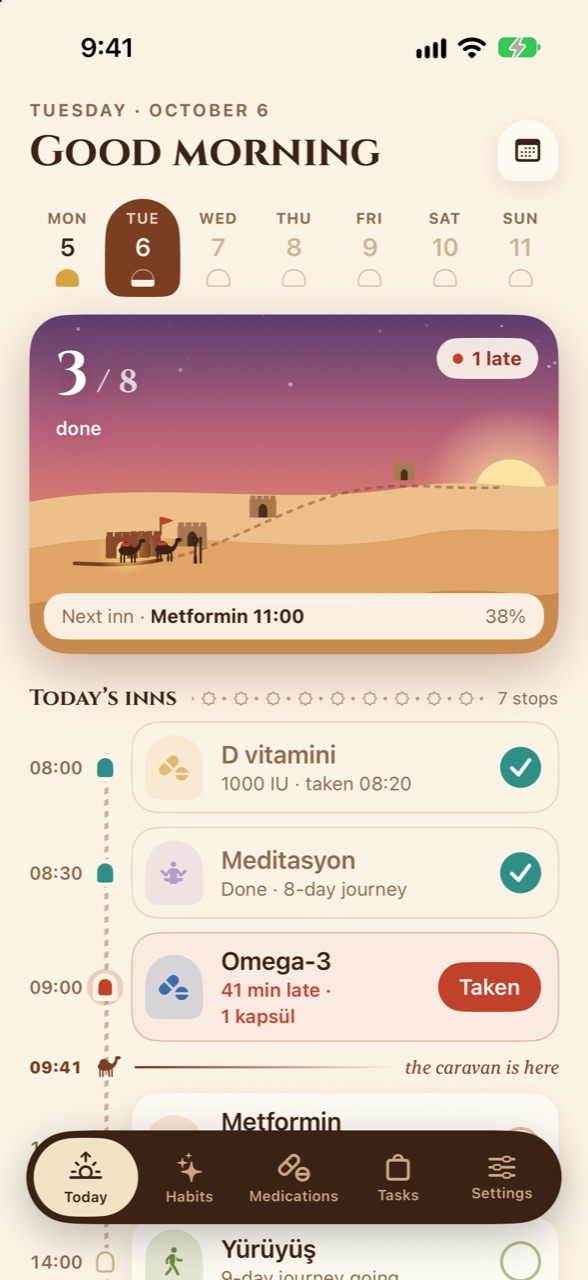
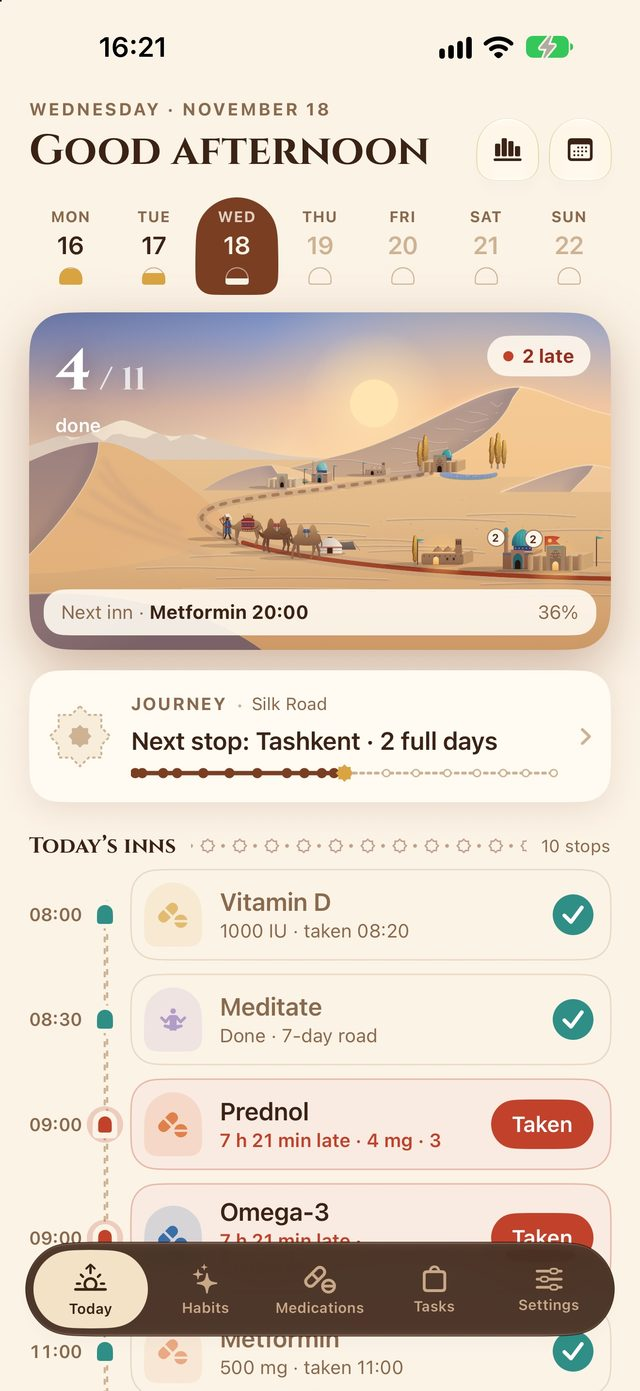
fix: bring the apps and the studio mark up to date
The apps section still described the old versions:

- Cevixa: Tempo, the daily number, replaces the hourglass; new icon and
  both looks (Layers, Receipt roll) in place of the icon-only panel.
  Platform is iOS; Android is still in development.
- Dawnia 2.0: twelve historic roads and city seals instead of inns,
  the new tagline, and Apple Watch.
- Onelior: the guide and the rope team, Apple Watch, and the guide
  screen in the route panel.
- Moxakk: basketball and the public track record, with the current
  analysis screen.

The studio section uses the new Omnia Potentia mark (lavender and
apricot ram's horns) as SVG in place of the old PNG.

diff --git a/lib/content.ts b/lib/content.ts
@@ -124,8 +124,8 @@ export const apps: App[] = [
     category: { en: "Health & Fitness", tr: "Sağlık & Fitness" },
     tagline: { en: "Every workout is altitude.", tr: "Her antrenman bir irtifa." },
     summary: {
-      en: "Workouts, sleep and study flow in from Apple Health and become metres on the way up Everest — then the rest of the Seven Summits. Eight stats form a compass of the athlete you are becoming.",
-      tr: "Antrenman, uyku ve çalışma Apple Health'ten gelir; Everest'e, ardından Yedi Zirve'ye uzanan yolda metreye dönüşür. Sekiz istatistik, dönüştüğün sporcunun pusulasını çizer.",
+      en: "Workouts, sleep and study flow in from Apple Health and become metres on the way up Everest — then the rest of the Seven Summits. A guide walks beside you, and up to four friends can rope up for a shared weekly goal.",
+      tr: "Antrenman, uyku ve çalışma Apple Health'ten gelir; Everest'e, ardından Yedi Zirve'ye uzanan yolda metreye dönüşür. Yanında bir rehber yürür, dört arkadaşa kadar aynı ipe bağlanıp haftalık hedefi birlikte tırmanabilirsin.",
     },
     built: [
       {
@@ -142,7 +142,7 @@ export const apps: App[] = [
       },
     ],
     stack: ["SwiftUI", "HealthKit", "NestJS", "Prisma", "PostgreSQL", "Redis", "Docker"],
-    platforms: ["iOS", "iPadOS"],
+    platforms: ["iOS", "iPadOS", "watchOS"],
     status: "live",
     url: "https://onelior.com",
     appStoreUrl: "https://apps.apple.com/app/onelior/id6789689297",
@@ -154,8 +154,8 @@ export const apps: App[] = [
     category: { en: "Sports · AI", tr: "Spor · Yapay zekâ" },
     tagline: { en: "Read the game before kick-off.", tr: "Maçı başlama düdüğünden önce oku." },
     summary: {
-      en: "Three AI models — Claude, OpenAI and Gemini — read every football match from licensed data: form, lineups, team news and the market. You get one clear answer: what's likely, why, and how sure we are. Every read is scored against the result.",
-      tr: "Üç yapay zekâ modeli — Claude, OpenAI ve Gemini — her futbol maçını lisanslı veriden okur: form, kadrolar, takım haberleri ve piyasa. Sonuçta tek bir net cevap: ne olası, neden ve ne kadar eminiz. Her tahmin maç sonucuyla puanlanır.",
+      en: "Three AI models — Claude, OpenAI and Gemini — read every football match, and now basketball, from licensed data: form, lineups, team news and the market. You get one clear answer: what's likely, why, and how sure we are. Every read is scored in a public track record.",
+      tr: "Üç yapay zekâ modeli — Claude, OpenAI ve Gemini — her futbol maçını, artık basketbolu da, lisanslı veriden okur: form, kadrolar, takım haberleri ve piyasa. Sonuçta tek bir net cevap: ne olası, neden ve ne kadar eminiz. Her tahmin herkese açık bir başarı geçmişinde puanlanır.",
     },
     built: [
       {
@@ -179,12 +179,12 @@ export const apps: App[] = [
   {
     slug: "cevixa",
     name: "Cevixa",
-    icon: "/apps/cevixa/icon.svg",
+    icon: "/apps/cevixa/icon.jpg",
     category: { en: "Finance", tr: "Finans" },
-    tagline: { en: "Every expense, a grain of sand.", tr: "Her harcama bir kum tanesi." },
+    tagline: { en: "How much can you spend today?", tr: "Bugün ne kadar harcayabilirsin?" },
     summary: {
-      en: "Personal and shared expense tracking. Your monthly limit sits in an hourglass — as you spend, sand falls. Bills, receipts, bank CSVs and four currencies in one calm app.",
-      tr: "Kişisel ve ortak harcama takibi. Aylık limitin bir kum saatinde durur; harcadıkça kum akar. Faturalar, fişler, banka CSV'leri ve dört para birimi tek bir sakin uygulamada.",
+      en: "Personal and shared spending. Cevixa turns your monthly limit into one daily number, Tempo: what you can spend today without putting the rest of the month at risk. Bills, receipts, bank CSVs and four currencies, in two looks: Layers and Receipt roll.",
+      tr: "Kişisel ve ortak harcama takibi. Cevixa aylık limitini tek bir günlük rakama, Tempo'ya çevirir: ayın geri kalanını riske atmadan bugün harcayabileceğin tutar. Faturalar, fişler, banka CSV'leri ve dört para birimi; Katmanlar ve Fiş rulosu olmak üzere iki görünümle.",
     },
     built: [
       {
@@ -201,7 +201,7 @@ export const apps: App[] = [
       },
     ],
     stack: ["SwiftUI", "Kotlin", "Jetpack Compose", "FastAPI", "PostgreSQL", "OpenAPI"],
-    platforms: ["iOS", "Android"],
+    platforms: ["iOS"],
     status: "live",
     url: "https://appcevixa.com",
     appStoreUrl: "https://apps.apple.com/app/cevixa-expense-tracker/id6818992503",
@@ -211,10 +211,10 @@ export const apps: App[] = [
     name: "Dawnia",
     icon: "/apps/dawnia/icon.png",
     category: { en: "Health & Habits", tr: "Sağlık & Alışkanlık" },
-    tagline: { en: "Every dose, an inn on the day's road.", tr: "Her doz, günün yolunda bir han." },
+    tagline: { en: "Remember your meds. Enjoy the journey.", tr: "Gününü tamamla, kervan ilerlesin." },
     summary: {
-      en: "A calm medication, habit and task tracker. Doses, habits and to-dos line up on the day's road while a caravan moves from inn to inn. No account, no server — everything stays on the phone.",
-      tr: "Sakin bir ilaç, alışkanlık ve görev takipçisi. Dozlar, alışkanlıklar ve yapılacaklar günün yolunda sıralanır; kervan handan hana ilerler. Hesap yok, sunucu yok — her şey telefonda kalır.",
+      en: "A calm medication, habit and task tracker. Every full day moves a caravan one step down one of twelve historic roads, from the Silk Road to the Tōkaidō, earning each city's seal on the way. On iPhone and Apple Watch. No account, no server — everything stays on the phone.",
+      tr: "Sakin bir ilaç, alışkanlık ve görev takipçisi. Tamamlanan her gün kervanı İpek Yolu'ndan Tōkaidō'ya on iki tarihî yoldan birinde bir adım ilerletir; her şehrin mührü yol boyunca toplanır. iPhone'da ve Apple Watch'ta. Hesap yok, sunucu yok — her şey telefonda kalır.",
     },
     built: [
       {
@@ -231,7 +231,7 @@ export const apps: App[] = [
       },
     ],
     stack: ["SwiftUI", "SwiftData", "WidgetKit", "ActivityKit", "App Intents"],
-    platforms: ["iOS"],
+    platforms: ["iOS", "watchOS"],
     status: "live",
     url: "https://appdawnia.com",
     appStoreUrl: "https://apps.apple.com/app/dawnia/id6819712758",

diff --git a/components/expedition/expedition.tsx b/components/expedition/expedition.tsx
@@ -186,7 +186,7 @@ function Studio({ lang }: { lang: Lang }) {
         <div data-reveal>
           <Mono className="text-bone/50">{ex.studio.kicker[lang]}</Mono>
           <div className="mt-6 flex items-center gap-5">
-            <Image src="/brand/omnia-mark.png" alt="" width={256} height={141} className="h-12 w-auto sm:h-16" />
+            <Image src="/brand/omnia-mark.svg" alt="" width={72} height={50} className="h-12 w-auto sm:h-16" />
           </div>
           <h2 lang="en" className="font-wide mt-6 text-[clamp(2.75rem,7.5vw,7rem)] font-extrabold uppercase leading-[0.86] tracking-[-0.03em]">
             Omnia
@@ -275,7 +275,7 @@ function RoutePanel({ app, lang }: { app: App; lang: Lang }) {
       return (
         <>
           <Phone src="/apps/onelior/climb.jpg" alt="Onelior Climb screen" className={cn("absolute left-[14%] top-[16%] w-[34%] -rotate-[6deg] max-lg:top-[12%]", lift)} />
-          <Phone src="/apps/onelior/activity.jpg" alt="Onelior Activity screen with the stat compass" className={cn("absolute right-[12%] top-[26%] w-[32%] rotate-[5deg] delay-75 max-lg:top-[22%]", lift)} />
+          <Phone src="/apps/onelior/guide.jpg" alt="Onelior Guide screen with a daily note from the climbing guide" className={cn("absolute right-[12%] top-[26%] w-[32%] rotate-[5deg] delay-75 max-lg:top-[22%]", lift)} />
         </>
       );
     case "dawnia":
@@ -289,7 +289,7 @@ function RoutePanel({ app, lang }: { app: App; lang: Lang }) {
       return (
         <>
           <div className={cn("absolute left-[9%] top-[14%] w-[112%] -rotate-[4deg] overflow-hidden rounded-xl bg-[#0b0c10] shadow-[0_40px_80px_-20px_rgba(0,0,0,0.7)] ring-1 ring-white/10", lift)}>
-            <Image src="/apps/moxakk/match.jpg" alt="Moxakk match analysis: an Arsenal win at 48 percent, most likely 2–1" width={1600} height={765} sizes="(min-width: 1024px) 50vw, 100vw" className="h-auto w-full" />
+            <Image src="/apps/moxakk/analysis.jpg" alt="Moxakk analysis of Arsenal against Liverpool: the analysts against the market, and two of three models agreeing on an Arsenal win" width={1600} height={911} sizes="(min-width: 1024px) 50vw, 100vw" className="h-auto w-full" />
           </div>
           <div className="absolute bottom-[8%] left-[8%] w-[62%] max-w-72 bg-[#111216]/90 p-4 text-white ring-1 ring-white/15">
             <Mono className="text-white/55">{lang === "tr" ? "Üç model · tek okuma" : "Three models · one read"}</Mono>
@@ -310,20 +310,13 @@ function RoutePanel({ app, lang }: { app: App; lang: Lang }) {
     case "cevixa":
       return (
         <>
-          <Image
-            src="/apps/cevixa/icon.svg"
-            alt=""
-            width={320}
-            height={320}
-            className={cn("absolute left-1/2 top-[40%] w-[36%] max-w-64 -translate-x-1/2 -translate-y-1/2 rounded-[22%] shadow-[0_40px_90px_-20px_rgba(0,0,0,0.7)]", lift)}
-          />
-          <div className="absolute bottom-[8%] left-1/2 w-[70%] max-w-80 -translate-x-1/2 bg-[#f6f6ef] p-4 text-[#192020]">
-            <div className="flex items-baseline justify-between">
-              <Mono className="text-[#6b7070]">{lang === "tr" ? "Bu ay kalan" : "Left this month"}</Mono>
-              <span className="text-xl font-semibold tabular-nums">€737.20</span>
-            </div>
-            <div className="mt-3 h-1.5 bg-[#e3e4d8]">
-              <div className="h-full w-[63%] bg-[#cbdc4e]" />
+          <Phone src="/apps/cevixa/layers.jpg" alt="Cevixa Overview in the Layers look, with today's Tempo" className={cn("absolute left-[14%] top-[16%] w-[33%] -rotate-[5deg] max-lg:top-[12%]", lift)} />
+          <Phone src="/apps/cevixa/receipt.jpg" alt="Cevixa Overview in the Receipt roll look" className={cn("absolute right-[13%] top-[26%] w-[31%] rotate-[6deg] delay-75 max-lg:top-[22%]", lift)} />
+          <div className="absolute bottom-[8%] left-1/2 w-[70%] max-w-80 -translate-x-1/2 bg-[#f5f4f0] p-4 text-[#13171b]">
+            <Mono className="text-[#5c626a]">{lang === "tr" ? "Bugün rahatça harcayabileceğin" : "You can still spend today"}</Mono>
+            <div className="mt-1 text-3xl font-semibold tabular-nums">₺330</div>
+            <div className="mt-3 h-1.5 bg-[#edeae3]">
+              <div className="h-full w-[66%] bg-[#3b55f0]" />
             </div>
           </div>
         </>
